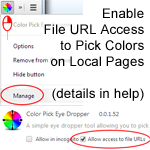
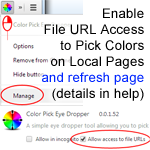
mostly firefox related updates

Changed region(s): [[0.4533, 0.48, 0.96, 0.5867], [0.24, 0.48, 0.4267, 0.56]]

diff --git a/lib/main.js b/lib/main.js
@@ -111,7 +111,7 @@ var chrome={
 		}
 	},
 	extension : {
-		getURL: function(u){return u},
+		getURL: function(u){return data.url(u)},//UNIQUE
 //		onRequest: {
 //			addListener : function(fn){
 //				console.log('adding listener');
@@ -136,9 +136,15 @@ var chrome={
 		}
 	},
 	browserAction: {
-		setIcon: function(){},
-		setBadgeBackgroundColor: function(){},
-		setBadgeText: function(){}
+		setIcon: function(r){//UNIQUE
+			widget.port.emit('setIconURI',(r.path||r.imageData));//UNIQUE
+		},
+		setBadgeBackgroundColor: function(r){
+			widget.port.emit('setBadgeBackground',(r.color));//UNIQUE
+		},
+		setBadgeText: function(r){
+			widget.port.emit('setBadgeText',(r.text));//UNIQUE
+		}
 	},
 	windows : {
 		getCurrent: function(fn){
@@ -238,7 +244,7 @@ function getCurrentClrData(){
 function defaultIcon(){
 	var iconPath='img/';
 	if(appleIcon)iconPath+='apple/';
-	if(resetIcon)chrome.browserAction.setIcon({path:chrome.extension.getURL(iconPath+'icon19.png')});//update icon (to be configurable)
+	if(resetIcon)chrome.browserAction.setIcon({path:chrome.extension.getURL(iconPath+'icon16.png')});//update icon (to be configurable)
 }
 
 function getWeek(d){
@@ -323,8 +329,9 @@ function fromPrefs(){
 //		else 
 			localStorage["usageStatistics"]=false;
 	}
-	if(localStorage["usageStatistics"]=='true' && !navigator.doNotTrack){
-		localStorage.removeItem("feedbackOptOut");
+	if(localStorage["usageStatistics"]=='true'){
+		if(localStorage.removeItem)localStorage.removeItem("feedbackOptOut");
+		else delete localStorage["feedbackOptOut"];
 	}else{
 		localStorage.feedbackOptOut = "true";
 	}
@@ -354,9 +361,18 @@ var popup = panel.Panel({
 
 var widget=require("sdk/widget").Widget({
   id: "open-colorpick-btn",
-  label: "Color Picker",
-  contentURL: data.url("img/icon16.png"),
+  label: "ColorPick Eyedropper",
+  contentURL: data.url("widget-ff.html"),
+  contentScriptFile: [data.url('widget-ff.js')],
+  contentScriptWhen: "end",
   panel: popup
+});
+
+widget.port.on('rightClicked',function(){
+	if(optionsPanel&&optionsPanel.isShowing){
+		optionsPanel.destroy();
+    optionsPanel=false;
+	}else createPopupByEnum('OPTIONS_SCREEN');
 });
 
 //widget.panel.show();
@@ -454,7 +470,7 @@ function createPopupByEnum(popup_enum){
 		  height:600,
 		  title:"ColorPick License",
 		  contentURL: data.url("license-ff.html?wide=1"),
-		  contentScriptFile: [data.url('chrome-api.js'),data.url('Cr_min.js'),data.url('license.js'),data.url('license-ff-extra.js')],
+		  contentScriptFile: [data.url('chrome-api.js'),data.url('Cr_min.js'),data.url('options_prefs.js'),data.url('license.js'),data.url('license-ff-extra.js')],
 		  contentScriptWhen: "end",
 		};
 	}else if(popup_enum=='REGISTER_SCREEN'){
@@ -486,6 +502,7 @@ function createPopupByEnum(popup_enum){
 	optionsPanel.port.on('destroyPopupSoon', function(response){
 		setTimeout(function(){
       optionsPanel.destroy();
+      optionsPanel=false;
     },10);
   });
   
@@ -692,9 +709,7 @@ function incomingRequest(request,sender,sendResponse) {
 		if(shareClors){
 			Request({
 			  url: 'http://vidzbigger.com/vcolors.php?colorhex='+curentHex,
-			  onComplete: function (response) {
-			    optionsPanel.port.emit('XMLHttpResponse',response.status,response.text);
-			  }
+			  onComplete: function (response) {}
 			}).get();
 		}
 		//store colors
@@ -912,8 +927,17 @@ function handleRendering(){
 	
 	lastPreviewURI = icvs.toDataURL();//the last one, large size, is cached for revisiting the menu
 
-		if(iconIsBitmap)
-		chrome.browserAction.setIcon({imageData:ictx.getImageData(startPoint-9, startPoint-9, 19, 19)});//update icon (to be configurable)
+		if(iconIsBitmap){
+			var browseIconWidth=19;
+			var browseIconHalfWidth = Math.floor(browseIconWidth*0.5);
+			//chrome.browserAction.setIcon({imageData:ictx.getImageData(startPoint-browseIconHalfWidth, startPoint-browseIconHalfWidth, browseIconWidth, browseIconWidth)});
+			
+			var tmpCvs=document.createElement('canvas');
+			tmpCvs.width=browseIconWidth,tmpCvs.height=browseIconWidth;
+			var tctx=tmpCvs.getContext("2d");
+			tctx.drawImage(icvs,startPoint-browseIconHalfWidth, startPoint-browseIconHalfWidth, browseIconWidth, browseIconWidth,0,0,browseIconWidth,browseIconWidth);
+			chrome.browserAction.setIcon({path:tmpCvs.toDataURL()});//update icon (to be configurable)
+		}
 		
 		if(iconIsPreview){
 			if(data[0]||data[1]||data[2]){

diff --git a/data/license.js b/data/license.js
@@ -30,16 +30,18 @@ function init(){
 	}
 }
 function closeLicensePopup(closewin){
-	if(window.parent){
-		var doc=window.parent.document;
-		var dby=doc.body;
-		if(doc.getElementById('license_frame')){
-			dby.removeChild(doc.getElementById('license_frame'));
-		}else{
-			if(closewin)
-				window.close();
+	sendReloadPrefs(function(){
+		if(window.parent){
+			var doc=window.parent.document;
+			var dby=doc.body;
+			if(doc.getElementById('license_frame')){
+				dby.removeChild(doc.getElementById('license_frame'));
+			}else{
+				if(closewin)
+					window.close();
+			}
 		}
-	}
+	});
 }
 function resetAllButtonStyles(){
 	gel('btn_agree').style.border="";
@@ -53,7 +55,8 @@ function license_agree(){
 	
 	if(typeof(localStorage["usageStatistics"])=='undefined')localStorage["usageStatistics"]=false;
 	if(localStorage["usageStatistics"]=='true' && !navigator.doNotTrack){
-		localStorage.removeItem("feedbackOptOut");
+		if(localStorage.removeItem)localStorage.removeItem("feedbackOptOut");
+		else delete localStorage["feedbackOptOut"];
 	}else{
 		localStorage.feedbackOptOut = "true";
 	}

diff --git a/data/background.js b/data/background.js
@@ -77,7 +77,7 @@ function fromPrefs(){
 function defaultIcon(){
 	var iconPath='img/';
 	if(appleIcon)iconPath+='apple/';
-	if(resetIcon)chrome.browserAction.setIcon({path:chrome.extension.getURL(iconPath+'icon19.png')});//update icon (to be configurable)
+	if(resetIcon)chrome.browserAction.setIcon({path:chrome.extension.getURL(iconPath+(window.devicePixelRatio>1?'icon38.png':'icon19.png'))});//update icon (to be configurable)
 }
 
 var d=new Date();
@@ -380,8 +380,11 @@ function handleRendering(){
 	
 	lastPreviewURI = icvs.toDataURL();//the last one, large size, is cached for revisiting the menu
 
-		if(iconIsBitmap)
-		chrome.browserAction.setIcon({imageData:ictx.getImageData(startPoint-9, startPoint-9, 19, 19)});//update icon (to be configurable)
+		if(iconIsBitmap){
+			var browseIconWidth=19;
+			var browseIconHalfWidth = Math.floor(browseIconWidth*0.5);
+			chrome.browserAction.setIcon({imageData:ictx.getImageData(startPoint-browseIconHalfWidth, startPoint-browseIconHalfWidth, browseIconWidth, browseIconWidth)});
+		}
 		
 		if(iconIsPreview){
 			if(data[0]||data[1]||data[2]){

diff --git a/data/widget-ff.js b/data/widget-ff.js
@@ -1,0 +1,22 @@
+self.port.on('setIconURI', function(iuri){
+	if(iuri)
+		document.getElementById('widgeticon').src=iuri;
+});
+self.port.on('setBadgeBackground', function(clr){
+	document.getElementById('widgetbadge').style.backgroundColor='rgb('+clr[0]+','+clr[1]+','+clr[2]+')';
+});
+self.port.on('setBadgeText', function(txt){
+	document.getElementById('widgetbadge').innerHTML=txt;
+	if(txt.length > 0){
+		document.getElementById('widgetbadge').style.display='block';
+	}else{
+		document.getElementById('widgetbadge').style.display='none';
+	}
+});
+
+function mdf(ev){
+	if (ev.which === 2 || ev.which === 3){
+	    self.port.emit('rightClicked');
+	}
+}
+document.body.addEventListener('mousedown',mdf);

diff --git a/data/license-ff-extra.js b/data/license-ff-extra.js
@@ -47,8 +47,12 @@ function checkResourcesReady(){
 }
 checkResourcesReady();
 
-
-
-//gel('btn_agree').addEventListener('click', license_agree);
-//gel('btn_try').addEventListener('click', license_try);
-//gel('btn_register').addEventListener('click', license_register);
+function sendReloadPrefs(cb){
+	var cbf=cb;
+	if(typeof(cbf)!='function')cbf=function(){};
+	var m_prefs={};
+	for(var i in localStorage){
+		m_prefs[i]=localStorage[i];
+	}
+	chrome.extension.sendRequest({reloadprefs: true,prefs:m_prefs}, function(response) {cbf()});
+}

diff --git a/data/help.html b/data/help.html
@@ -29,7 +29,7 @@
 <div id="allhelp">
 	<h3>Help</h3>
 	
-	<br/><br/>To enable use on local pages/files:<br/>
+	<br/><br/>To enable use on local pages/files follow these steps and then refresh the page you wish to pick colors from:<br/>
 	<img src="img/localfiles.png" width="800" /><br/>
 	
 	<br/><br/>On a standard http:// webpage click the icon then move your mouse pointer over the webpage to pick colors.  On a mac you may have to pop out the preview window using <img src="img/popout.gif" />.  

diff --git a/data/options-ff-extra.js b/data/options-ff-extra.js
@@ -37,13 +37,14 @@ function checkResourcesReady(){
 	}
 }
 
-
-function sendReloadPrefs(){
+function sendReloadPrefs(cb){
+	var cbf=cb;
+	if(typeof(cbf)!='function')cbf=function(){};
 	var m_prefs={};
 	for(var i in localStorage){
 		m_prefs[i]=localStorage[i];
 	}
-	chrome.extension.sendRequest({reloadprefs: true,prefs:m_prefs}, function(response) { });
+	chrome.extension.sendRequest({reloadprefs: true,prefs:m_prefs}, function(response) {cbf()});
 }
 
 var gotMainPrefs=false;

diff --git a/data/options_prefs.js b/data/options_prefs.js
@@ -42,8 +42,10 @@ pSyncItems["reg_hash"]={def:""};
 pSyncItems["reg_name"]={def:""};
 pSyncItems["reg_inapp"]={def:false};
 
-function sendReloadPrefs(){
-	chrome.runtime.sendMessage({reloadprefs: true}, function(response) { });
+function sendReloadPrefs(cb){
+	var cbf=cb;
+	if(typeof(cbf)!='function')cbf=function(){};
+	chrome.runtime.sendMessage({reloadprefs: true}, function(response) {cbf()});
 }
 
 function chromeStorageSaveALocalStor(tosave){

diff --git a/data/options.js b/data/options.js
@@ -76,7 +76,8 @@ function save_options() {
 	
 	if(typeof(localStorage["usageStatistics"])=='undefined')localStorage["usageStatistics"]=false;
 	if(localStorage["usageStatistics"]=='true' && !navigator.doNotTrack){
-		localStorage.removeItem("feedbackOptOut");
+		if(localStorage.removeItem)localStorage.removeItem("feedbackOptOut");
+		else delete localStorage["feedbackOptOut"];
 	}else{
 		localStorage.feedbackOptOut = "true";
 	}

diff --git a/data/register-ff-extra.js b/data/register-ff-extra.js
@@ -41,6 +41,16 @@ function checkResourcesReady(){
 }
 checkResourcesReady();
 
+function sendReloadPrefs(cb){
+	var cbf=cb;
+	if(typeof(cbf)!='function')cbf=function(){};
+	var m_prefs={};
+	for(var i in localStorage){
+		m_prefs[i]=localStorage[i];
+	}
+	chrome.extension.sendRequest({reloadprefs: true,prefs:m_prefs}, function(response) {cbf()});
+}
+
 var ffxmlhttpobject={
 	url : '',
 	readyState : 4,

diff --git a/data/widget-ff.html b/data/widget-ff.html
@@ -1,0 +1,9 @@
+<html>
+<head>
+<meta content="utf-8" http-equiv="encoding">
+<meta content="text/html;charset=utf-8" http-equiv="Content-Type">
+<title>ColorPick Eyedropper</title>
+<link href="widget-ff.css" rel="stylesheet" type="text/css">
+</head>
+<body><img id="widgeticon" src="img/icon16.png" height="16" width="16"/><div id="widgetbadge"></div></body>
+</html>

diff --git a/data/options-ff.html b/data/options-ff.html
@@ -2,7 +2,7 @@
 <head>
 <meta content="utf-8" http-equiv="encoding">
 <meta content="text/html;charset=utf-8" http-equiv="Content-Type">
-<title>Color Pick Options</title>
+<title>ColorPick Options</title>
 <link href="options.css" rel="stylesheet" type="text/css">
 </head>
 <body></body>
